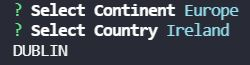
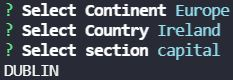
added curiosity section and query

diff --git a/index.js b/index.js
@@ -49,11 +49,11 @@ async function main() {
         {
             type: 'list',
             name: 'section',
-            message: 'Select one',
+            message: 'Select section',
             choices: [
                 'capital',
                 'flag',
-                //'curiosity'
+                'curiosity',
             ]
         }
     ])
@@ -75,6 +75,22 @@ async function main() {
             })
             flag = flag_url.country.flag.url
             console.log(flag)
+        } catch (TypeError) {
+            console.log("coming soon ...")
+        }
+    } else if (section === "curiosity") {
+        try {
+            const { data: curiosity_data } = await graphql.query({
+                query: require(`./src/graphql/queries/getCuriosityByCountry`),
+                variables: {name: country.toLowerCase()}
+            })
+            curiosity = curiosity_data.country.curiosity
+            if (curiosity.length > 0) {
+                let pick = curiosity[Math.floor(Math.random()*curiosity.length)]
+                console.log(pick)
+            } else {
+                console.log("coming soon ...")
+            }
         } catch (TypeError) {
             console.log("coming soon ...")
         }

diff --git a/src/graphql/queries/getCuriosityByCountry.js b/src/graphql/queries/getCuriosityByCountry.js
@@ -1,0 +1,14 @@
+const { gql } = require('apollo-boost');  // destructuring
+// same as
+//const gql = require('apollo-boost').gql;
+
+
+module.exports = gql`
+    query getCuriosityByCountry($name: String!) {
+        country(where: {name: $name}) {
+            curiosity
+        }
+    }
+`;
+
+
